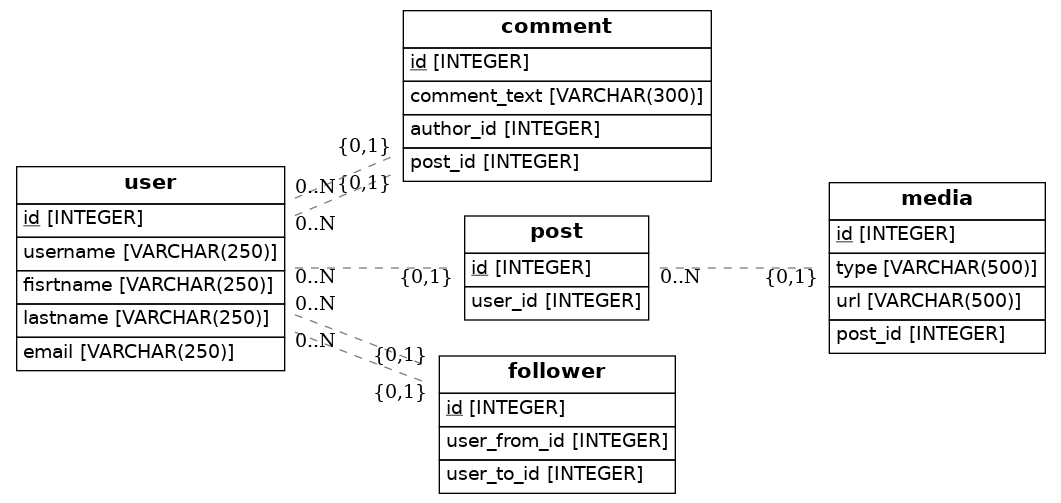
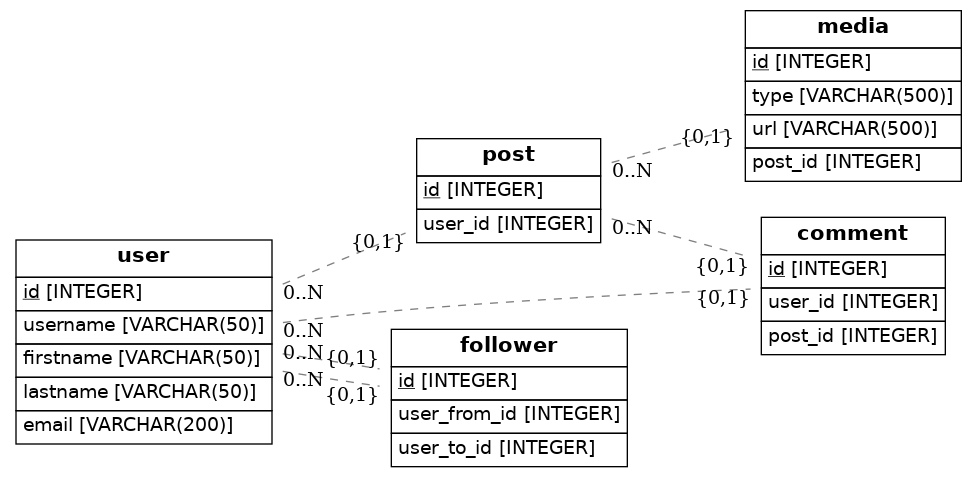
relationship

Changed region(s): [[0.0, 0.0, 1.0, 0.9979], [0.6141, 0.5283, 0.6755, 0.5577]]

diff --git a/src/models.py b/src/models.py
@@ -8,33 +8,35 @@ from eralchemy import render_er
 
 Base = declarative_base()
 
-class User(Base):
+class user(Base):
     __tablename__ = 'user'
-    # Here we define columns for the table person
-    # Notice that each column is also a normal Python instance attribute.
     id = Column(Integer, primary_key=True)
-    username = Column(String(250), nullable=False)
-    fisrtname = Column(String(250), nullable=False)
-    lastname = Column(String(250), nullable=False)
-    email = Column(String(250), nullable=False)
+    username = Column(String(50), nullable=True)
+    firstname = Column(String(50), nullable=True)
+    lastname = Column(String(50), nullable=True)
+    email = Column(String(200),nullable=True)
+    comment_relationship = relationship("comment")
+    post_relationship = relationship("post")
+    follower_relationship = relationship("follower", backref="user")
 
-class Comment(Base):
-    __tablename__ = "comment"
-    id = Column(Integer, primary_key=True)
-    comment_text = Column(String(300))
-    author_id = Column(Integer, ForeignKey("user.id"))
-    post_id = Column(Integer, ForeignKey("user.id"))
-
-class Post(Base):
-    __tablename__ = "post"
-    id = Column(Integer,primary_key=True)
-    user_id = Column(Integer, ForeignKey("user.id"))
 
 class Media(Base):
-    __tablename__ = "media"
+    __tablename__ = 'media'
     id = Column(Integer, primary_key=True)
     type = Column(String(500), nullable=True)
     url = Column(String(500), nullable=True)
+    post_id = Column(Integer, ForeignKey('post.id'))
+
+class Post(Base):
+    __tablename__ = 'post'
+    id = Column(Integer, primary_key=True)
+    user_id = Column(Integer, ForeignKey('user.id'))
+
+class Comment(Base):
+    __tablename__ = 'comment'
+    id = Column(Integer, primary_key=True)
+    comment_text = (String(500))
+    user_id = Column(Integer, ForeignKey('user.id'))
     post_id = Column(Integer, ForeignKey('post.id'))
 
 class Follower(Base):
@@ -45,8 +47,5 @@ class Follower(Base):
 
     def to_dict(self):
         return {}
-
-
-
 ## Draw from SQLAlchemy base
 render_er(Base, 'diagram.png')
